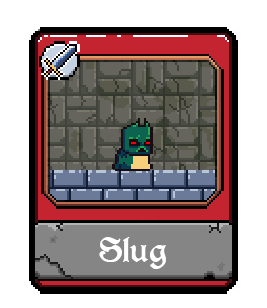
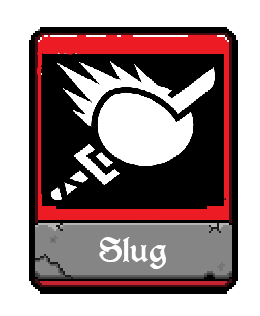
Add a new "fireball" card and update its image in the game

diff --git a/MiJuego/Content/CardList.cs b/MiJuego/Content/CardList.cs
@@ -13,7 +13,7 @@ namespace MiJuego.Content;
                 (player, target) =>
                 {
                     target.HealthCurrent -= player.Attack + 20;
-                }, 20,"card").Card,
+                }, 20,"fireball").Card,
 
             new CardFactory("Curación", "Recupera 40 puntos de vida", CardType.Health,
                 (player, target) =>
@@ -21,38 +21,5 @@ namespace MiJuego.Content;
                     player.HealthCurrent = Math.Min(player.HealthCurrent + 40, player.HealthMax);
                 }, 40,"card").Card,
 
-            new CardFactory("Rompe escudos", "Baja su defensa en 3 puntos", CardType.Debuff,
-                (player, target) =>
-                {
-                    target.Defense -= 3;
-                }, 3,"card").Card,
-
-            new CardFactory("Espada maestra", "Aumenta tu ataque en 3 puntos", CardType.Buff,
-                (player, target) =>
-                {
-                    player.Attack += 3;
-                }, 3,"card").Card,
-
-            new CardFactory("Armadura", "Aumenta tu defensa en 3 puntos", CardType.Buff,
-                (player, target) =>
-                {
-                    player.Defense += 3;
-                }, 3,"card").Card,
-
-            new CardFactory("Picadura de serpiente", "Causa 2 de daño cada turno", CardType.Attack,
-                (player, target) =>
-                {
-                    target.HealthCurrent -= player.Attack + 5;
-                    IEffectCard poison = new NegativeEffectFactory(3, 2, NegativeEffect.Poison);
-                    target.NegativeEffects.Add(poison);
-                }, 5,"card").Card,
-
-            new CardFactory("Corte profundo", "Causa sangrado por 2 turnos", CardType.Attack,
-                (player, target) =>
-                {
-                    target.HealthCurrent -= player.Attack + 5;
-                    IEffectCard bleed = new NegativeEffectFactory(3, 2, NegativeEffect.Bleed);
-                    target.NegativeEffects.Add(bleed);
-                }, 5,"card").Card
         };
     }
